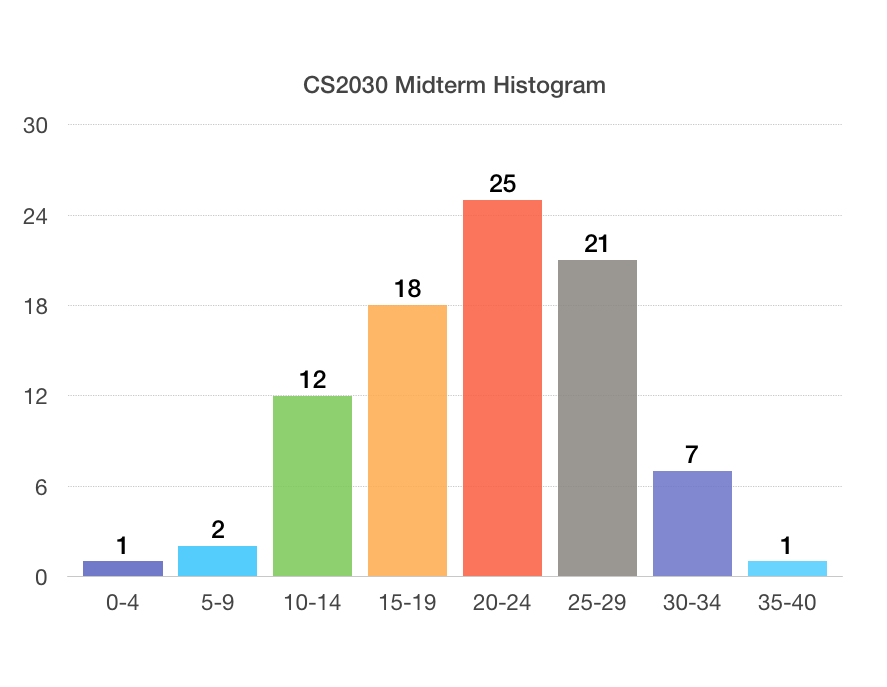
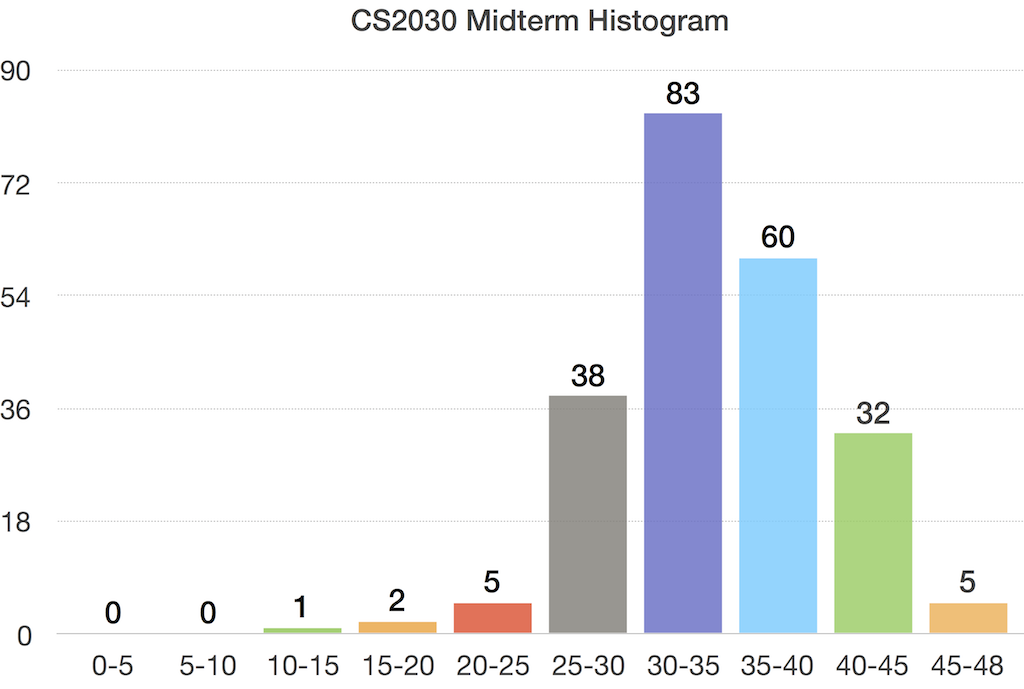
Update with midterm results

diff --git a/docs/midterm.md b/docs/midterm.md
@@ -1,34 +1,30 @@
 # Midterm
 
-## Questions and Solutions
+### Statistics
 
-Here is [a copy of the question paper with annotated solutions](https://www.comp.nus.edu.sg/~cs2030/1718-s1/midterm-w-solution.pdf)
+- Average: 33.5
+- Std Dev: 8.14
+- Max: 48
 
-## Mark Distribution
+![Histogram](figures/midterm-histogram.png)
 
-![mark distribution](figures/midterm-histogram.png)
 
-## Midterm Info Sheet
+### [Midterm Question Paper](https://www.comp.nus.edu.sg/~cs2030/1718-s2/midterm-w-solution.pdf) (with solution, marking scheme, and comments)
 
 ### Important Information
-- Date: October 2, 2017
-- Time: 1000 - 1120
-- Venue: LT19
+- Date: <s>March 2</s> March 5, 2018 (Monday)
+- Time: 1000 - 1130
+- Venue: MPSH 2 Section C
 
-Please arrive at least 5 minutes earlier and wait outside LT19 besides the canteen.
+Please arrive at least 5 minutes earlier and wait outside the hall.
 
 ### Scope
 - Everything taught during Week 1 - Week 6
-- Lab 1 - Lab 3
+- Lab 0 - Lab 1b
 
 ### Open Book
 This is an open book midterm.  You can bring in books and notes.  They can be printed or hand written.  No digital materials (laptop, tablet, etc.).  Any Java API needed will be provided to you.
 
-### Office Hours
+## PYP
 
-Kenneth and I will be holding special office hours before the midterm:
-
-Who | Date | Time | Venue |
-----|------|------|-------|
-Wei Tsang | Sep 28 (Thu) | 2-5pm | AS6 #05-14 |
-Kenneth | Sep 29 (Fri) | 2-5pm | DR6 (COM2 #02-12) |
+Here is [a copy of the question paper with annotated solutions](https://www.comp.nus.edu.sg/~cs2030/1718-s1/midterm-w-solution.pdf) from AY2017/18 Semester 1.
